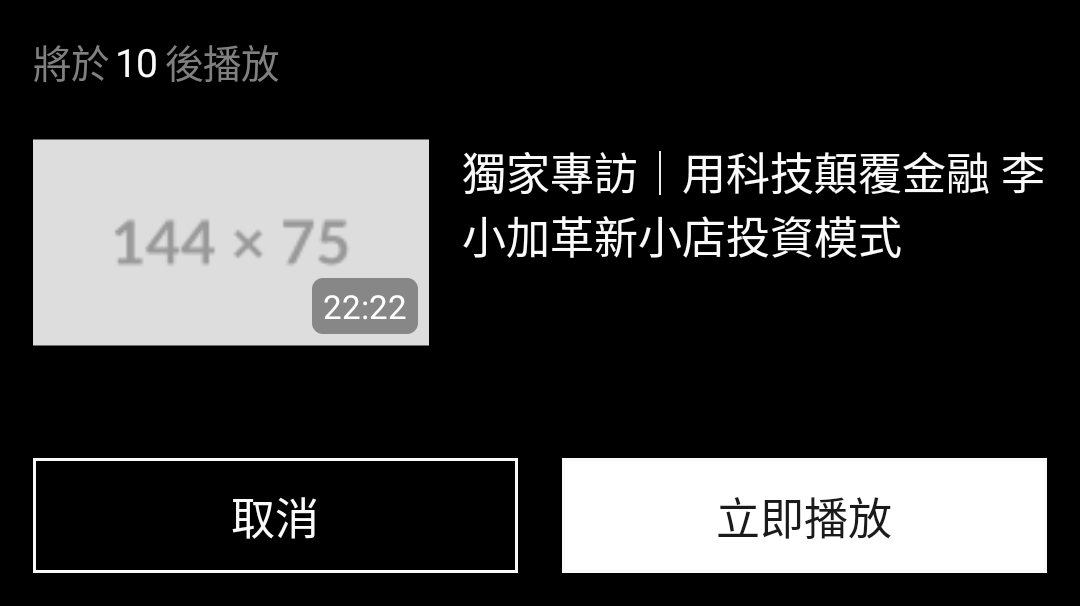
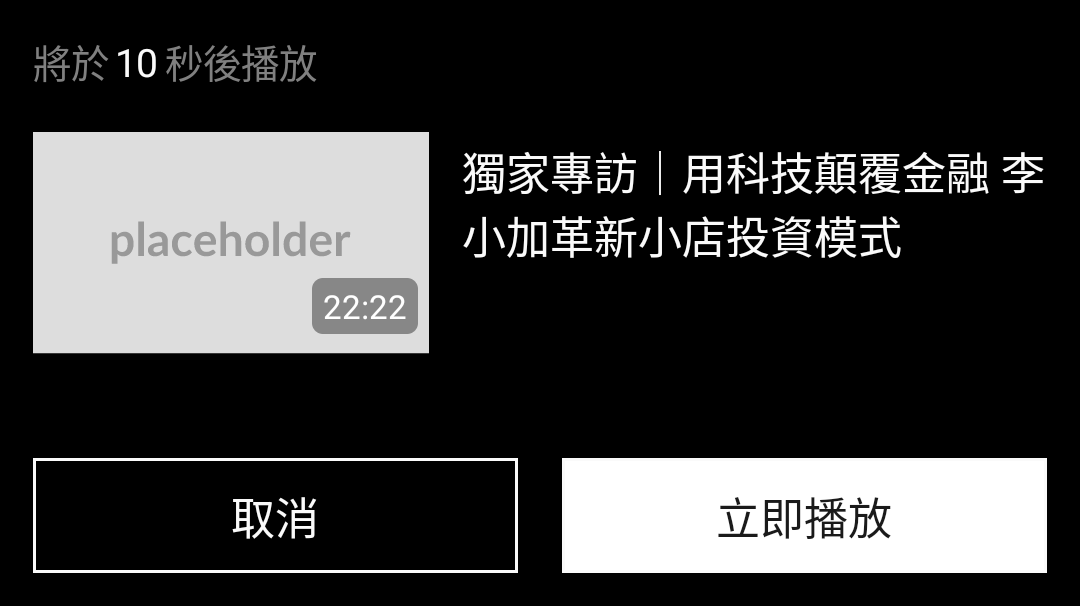
[[AOS] Upcoming Video View](https://app.clickup.com/t/860rpe513)
fixed comment

diff --git a/mobile-design/src/main/java/com/nmg/mobile/design/widgets/reel/UpcomingVideoView.kt b/mobile-design/src/main/java/com/nmg/mobile/design/widgets/reel/UpcomingVideoView.kt
@@ -38,13 +38,7 @@ import com.nmg.mobile.design.R
 import com.nmg.mobile.design.theme.NMGTheme
 
 @Composable
-public fun UpcomingVideoView(
-    imageURL: String,
-    headline: String,
-    timeCode: String,
-    onClickCancel: () -> Unit,
-    onClickPlay: () -> Unit,
-) {
+public fun <Item : UpcomingItem> UpcomingVideoView(item: Item) {
     Column(
         modifier = Modifier
             .aspectRatio(390f / 219f)
@@ -63,7 +57,7 @@ public fun UpcomingVideoView(
                 style = style
             )
             Text(
-                text = "10",
+                text = item.secCountDown.toString(),
                 style = TextStyle(
                     fontSize = 14.sp,
                     color = NMGTheme.colors.commonNeutralGray2,
@@ -71,7 +65,7 @@ public fun UpcomingVideoView(
                 modifier = Modifier.padding(top = 1.dp, start = 2.dp, end = 3.dp)
             )
             Text(
-                text = "後播放",
+                text = "秒後播放",
                 style = style
             )
         }
@@ -80,7 +74,7 @@ public fun UpcomingVideoView(
                 val shape = RoundedCornerShape(4.dp)
                 AsyncImage(
                     model = ImageRequest.Builder(LocalContext.current)
-                        .data(imageURL)
+                        .data(item.imageURL)
                         .crossfade(true)
                         .build(),
                     placeholder = painterResource(R.drawable.placeholder),
@@ -94,7 +88,7 @@ public fun UpcomingVideoView(
                         .clip(shape)
                 )
                 Text(
-                    text = timeCode,
+                    text = item.timeCode,
                     style = TextStyle(
                         fontSize = 12.sp,
                         color = Color.White,
@@ -111,7 +105,7 @@ public fun UpcomingVideoView(
             }
             Spacer(modifier = Modifier.width(12.dp))
             Text(
-                text = headline,
+                text = item.headline,
                 style = TextStyle(
                     fontSize = 16.sp,
                     color = NMGTheme.colors.commonNeutralGray2,
@@ -139,7 +133,7 @@ public fun UpcomingVideoView(
                     .background(color = Color.Transparent)
                     .padding(top = 9.dp, bottom = 9.dp)
                     .clickable(true, onClick = {
-                        onClickCancel
+                        item.onClickCancel
                     }),
             )
             Spacer(modifier = Modifier.width(16.dp))
@@ -156,7 +150,7 @@ public fun UpcomingVideoView(
                     .background(color = Color.White)
                     .padding(top = 9.dp, bottom = 9.dp)
                     .clickable(true, onClick = {
-                        onClickPlay
+                        item.onClickPlay
                     }),
             )
         }
@@ -166,12 +160,27 @@ public fun UpcomingVideoView(
 @Preview(showBackground = true, showSystemUi = true)
 @Composable
 fun UpcomingVideoViewPreview() {
-    UpcomingVideoView(
-        imageURL = "https://placehold.co/144x75/png",
-        headline = "獨家專訪｜用科技顛覆金融 李小加革新小店投資模式",
-        timeCode = "22:22",
-        onClickCancel = { },
-        onClickPlay = { },
+    UpcomingVideoView(object : UpcomingItem {
+        override var imageURL: String
+            get() = "https://placehold.co/144x75/png"
+            set(value) {}
+        override var headline: String
+            get() = "獨家專訪｜用科技顛覆金融 李小加革新小店投資模式"
+            set(value) {}
+        override var timeCode: String
+            get() = "22:22"
+            set(value) {}
+        override var secCountDown: Int
+            get() = 10
+            set(value) {}
+        override var onClickCancel: () -> Unit
+            get() = {}
+            set(value) {}
+        override var onClickPlay: () -> Unit
+            get() = {}
+            set(value) {}
+
+    }
     )
 }
 

diff --git a/mobile-design/src/androidTest/java/com/nmg/mobile/design/upcomingvideoview/UpcomingVideoViewTest.kt b/mobile-design/src/androidTest/java/com/nmg/mobile/design/upcomingvideoview/UpcomingVideoViewTest.kt
@@ -7,6 +7,7 @@ import com.karumi.shot.ScreenshotTest
 import com.nmg.mobile.design.theme.NMGTheme
 import com.nmg.mobile.design.widgets.card.CardData
 import com.nmg.mobile.design.widgets.card.CardView
+import com.nmg.mobile.design.widgets.reel.UpcomingItem
 import com.nmg.mobile.design.widgets.reel.UpcomingVideoView
 import org.junit.Before
 import org.junit.Rule
@@ -29,12 +30,27 @@ class UpcomingVideoViewTest : ScreenshotTest {
         composeRule.setContent {
 
             NMGTheme() {
-                UpcomingVideoView(
-                    imageURL = "https://placehold.co/144x75/png",
-                    headline = "獨家專訪｜用科技顛覆金融 李小加革新小店投資模式",
-                    timeCode = "22:22",
-                    onClickCancel = { },
-                    onClickPlay = { },
+                UpcomingVideoView(object : UpcomingItem {
+                    override var imageURL: String
+                        get() = "https://placehold.co/144x75/png"
+                        set(value) {}
+                    override var headline: String
+                        get() = "獨家專訪｜用科技顛覆金融 李小加革新小店投資模式"
+                        set(value) {}
+                    override var timeCode: String
+                        get() = "22:22"
+                        set(value) {}
+                    override var secCountDown: Int
+                        get() = 10
+                        set(value) {}
+                    override var onClickCancel: () -> Unit
+                        get() = {}
+                        set(value) {}
+                    override var onClickPlay: () -> Unit
+                        get() = {}
+                        set(value) {}
+
+                }
                 )
             }
         }

diff --git a/mobile-design/src/main/java/com/nmg/mobile/design/widgets/reel/UpcomingItem.kt b/mobile-design/src/main/java/com/nmg/mobile/design/widgets/reel/UpcomingItem.kt
@@ -1,0 +1,10 @@
+package com.nmg.mobile.design.widgets.reel
+
+public interface UpcomingItem {
+    var imageURL: String
+    var headline: String
+    var timeCode: String
+    var secCountDown: Int
+    var onClickCancel: () -> Unit
+    var onClickPlay: () -> Unit
+}
